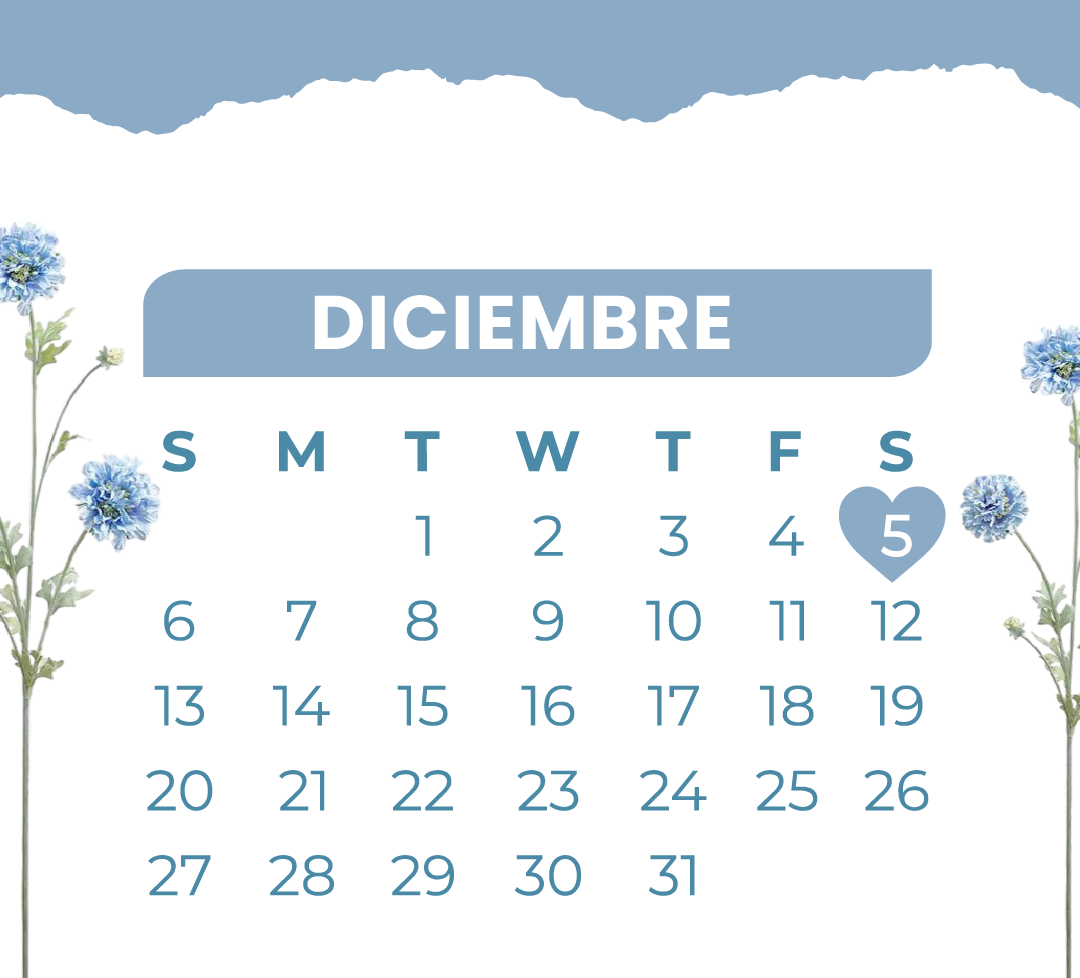
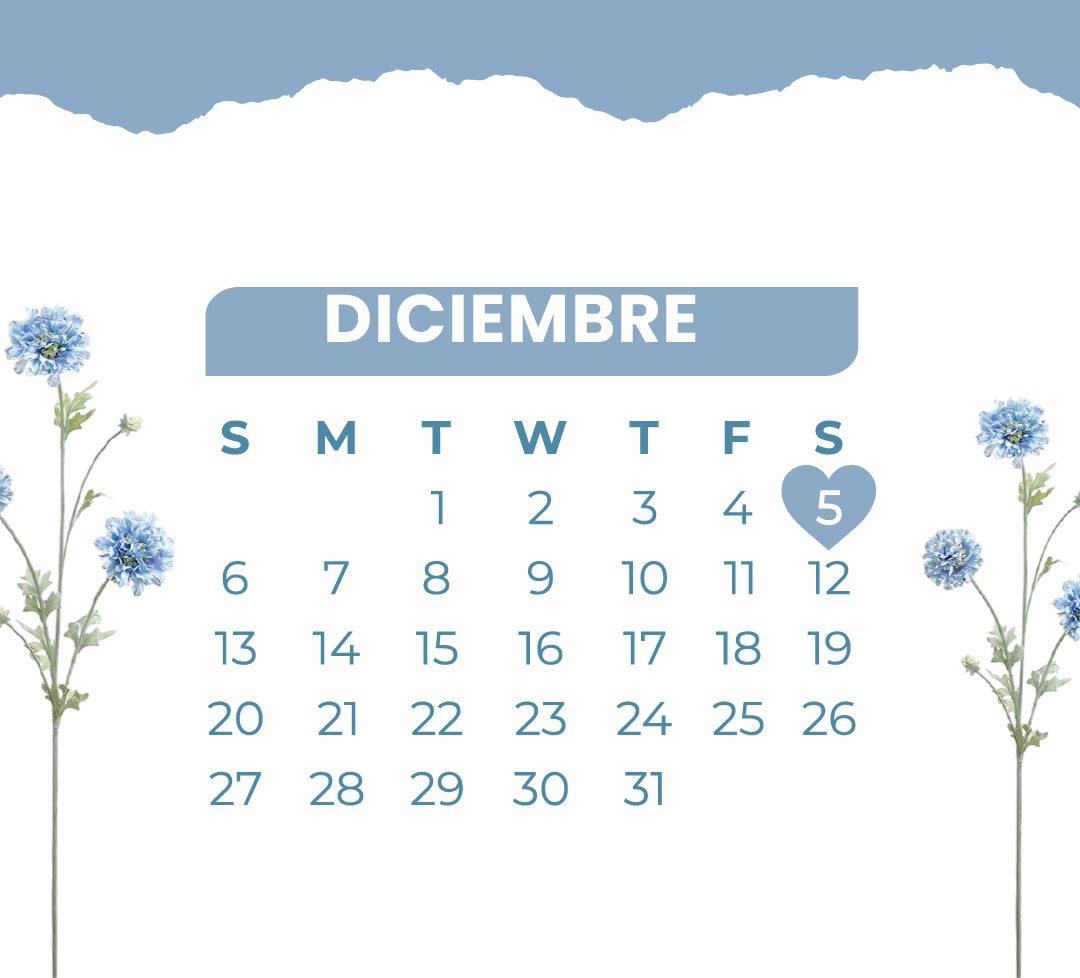
Cambiar dda imagenes

diff --git a/index.html b/index.html
@@ -36,7 +36,7 @@
             <img src="imagenes/W-A-05.png" alt="Invitación - Sección 5" class="img-boda">
 
             <div class="cuenta-regresiva">
-                <h2>Faltan</h2>
+                <h1>Faltan</h1>
 
                 <div class="countdown-row">
 

diff --git a/style.css b/style.css
@@ -195,7 +195,7 @@ body {
 ========================================= */
 
 .btn1 {
-    top: 80%;
+    top: 95%;
     width: 65%;
 }
 
@@ -215,7 +215,7 @@ body {
 ========================================= */
 
 .btn3 {
-    top: 80%;
+    top: 40%;
     width: 65%;
 }
 
